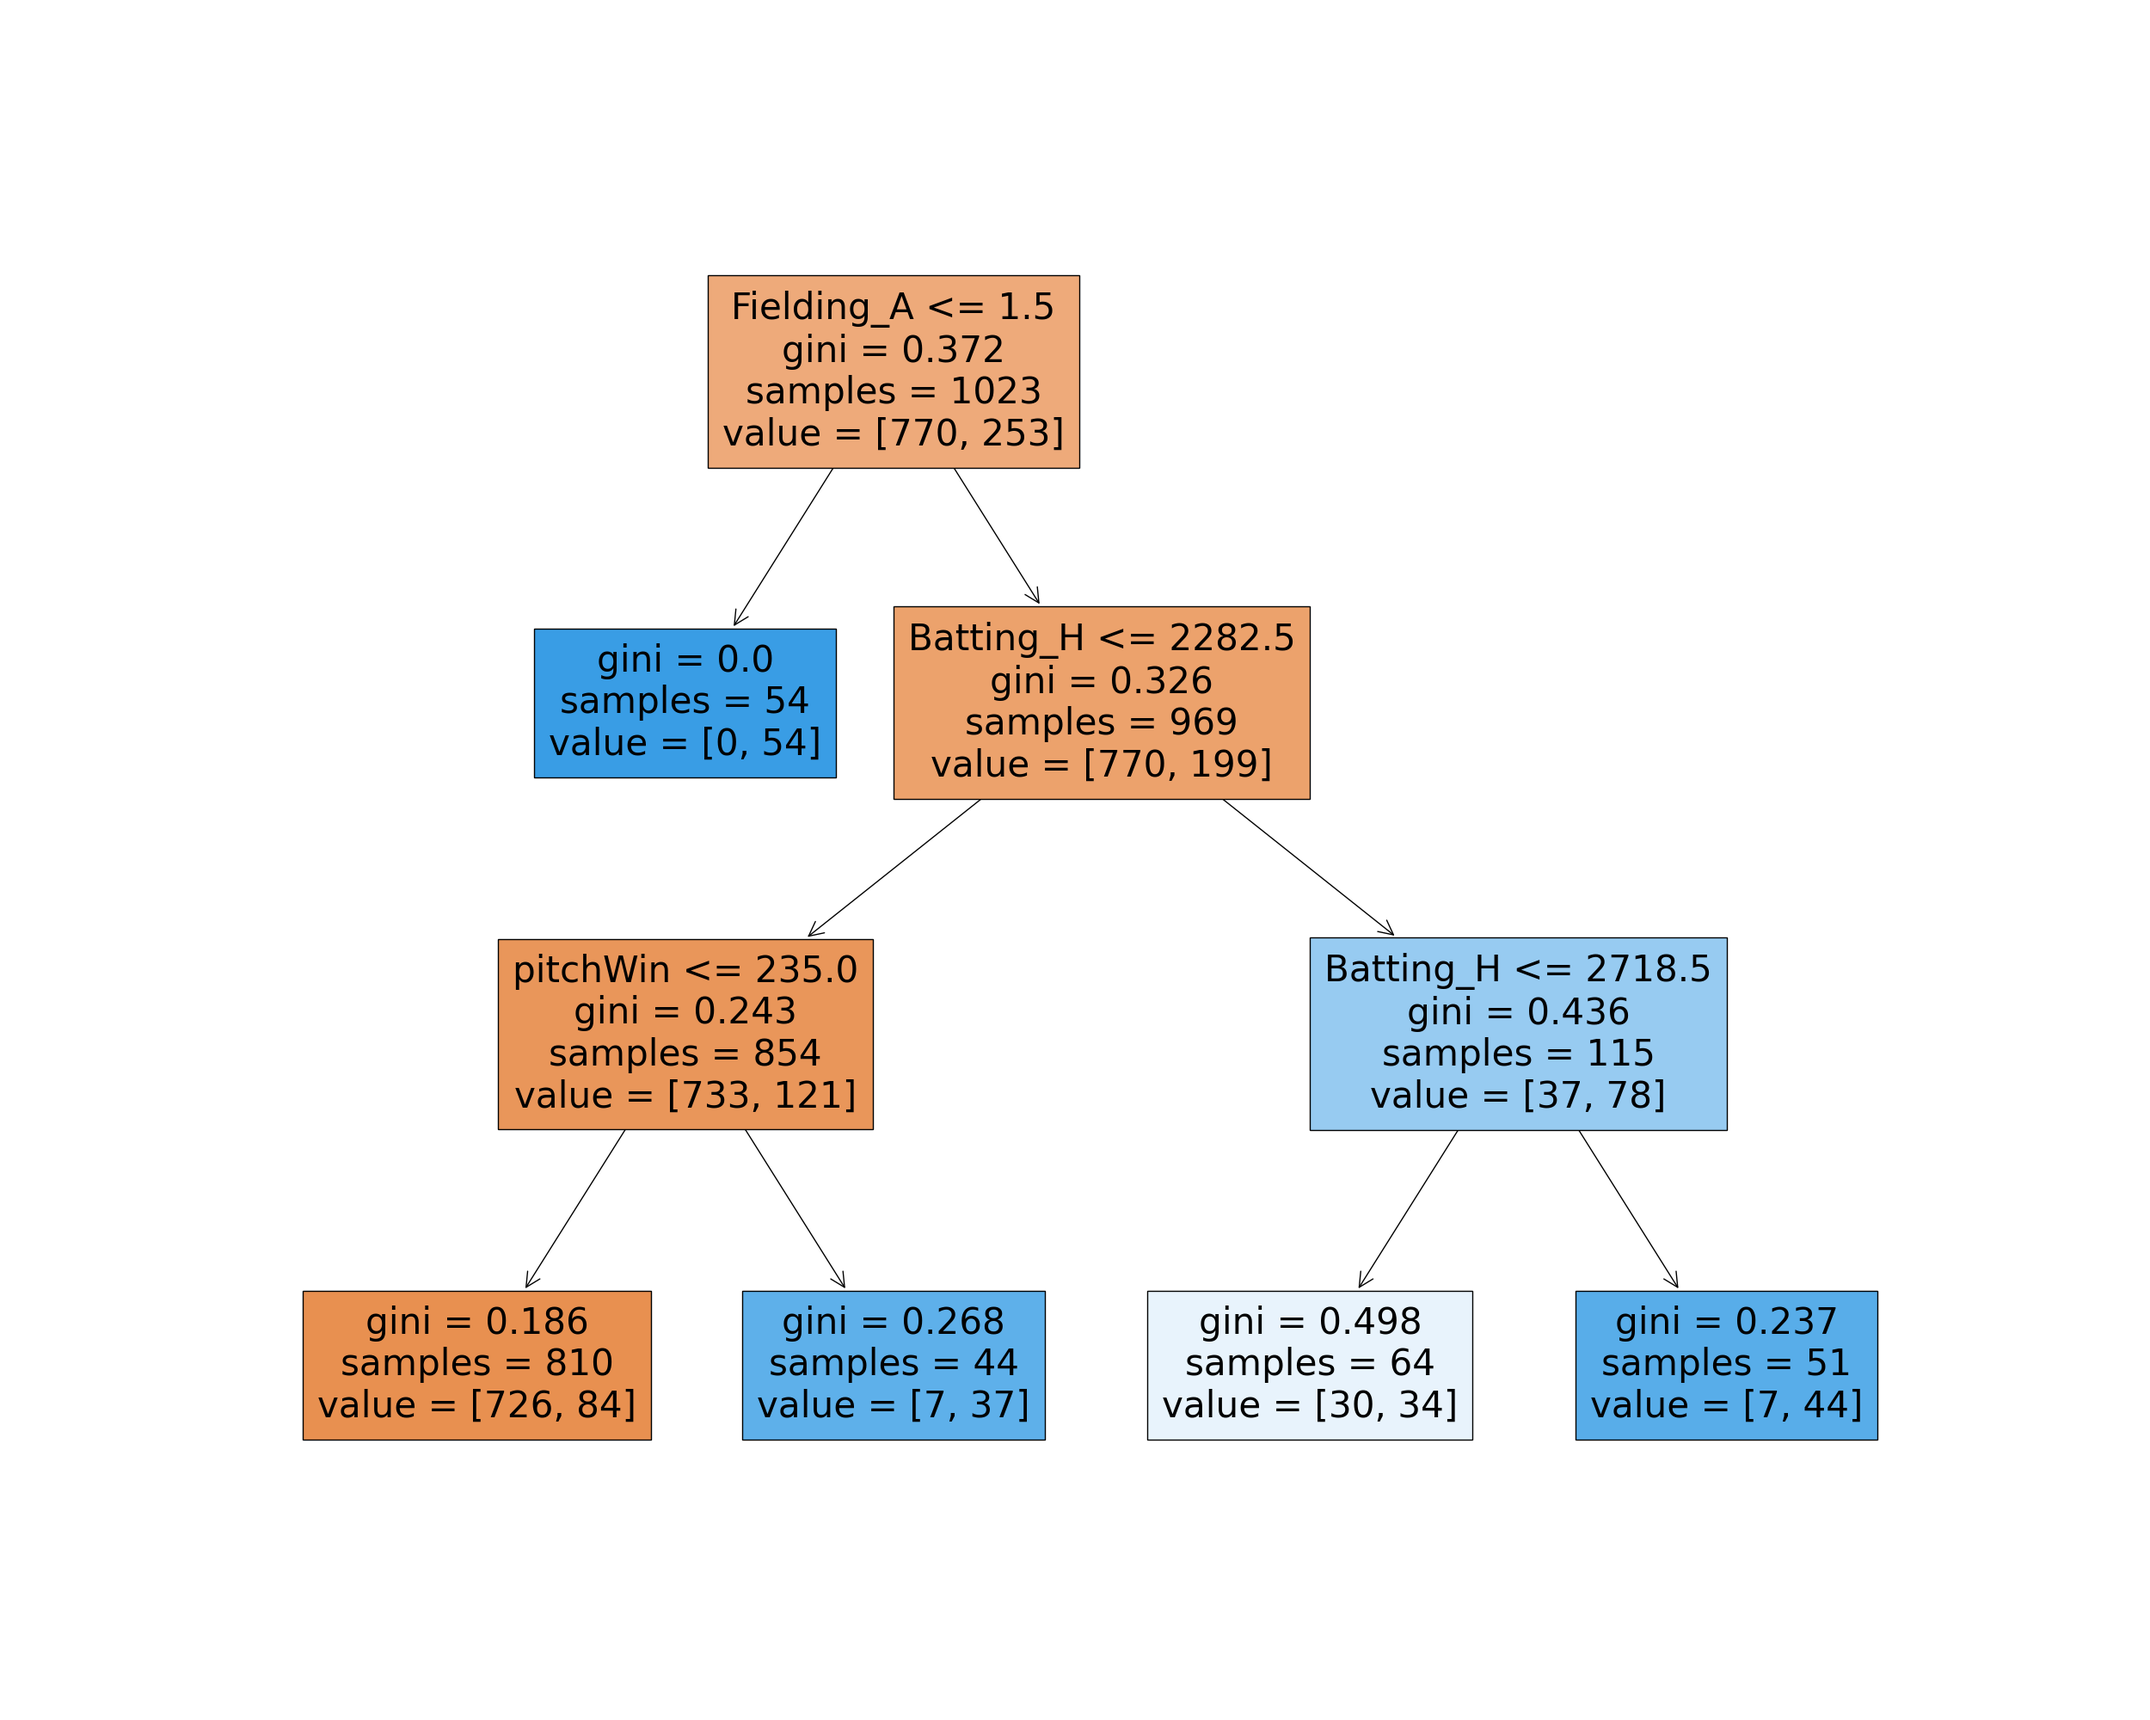
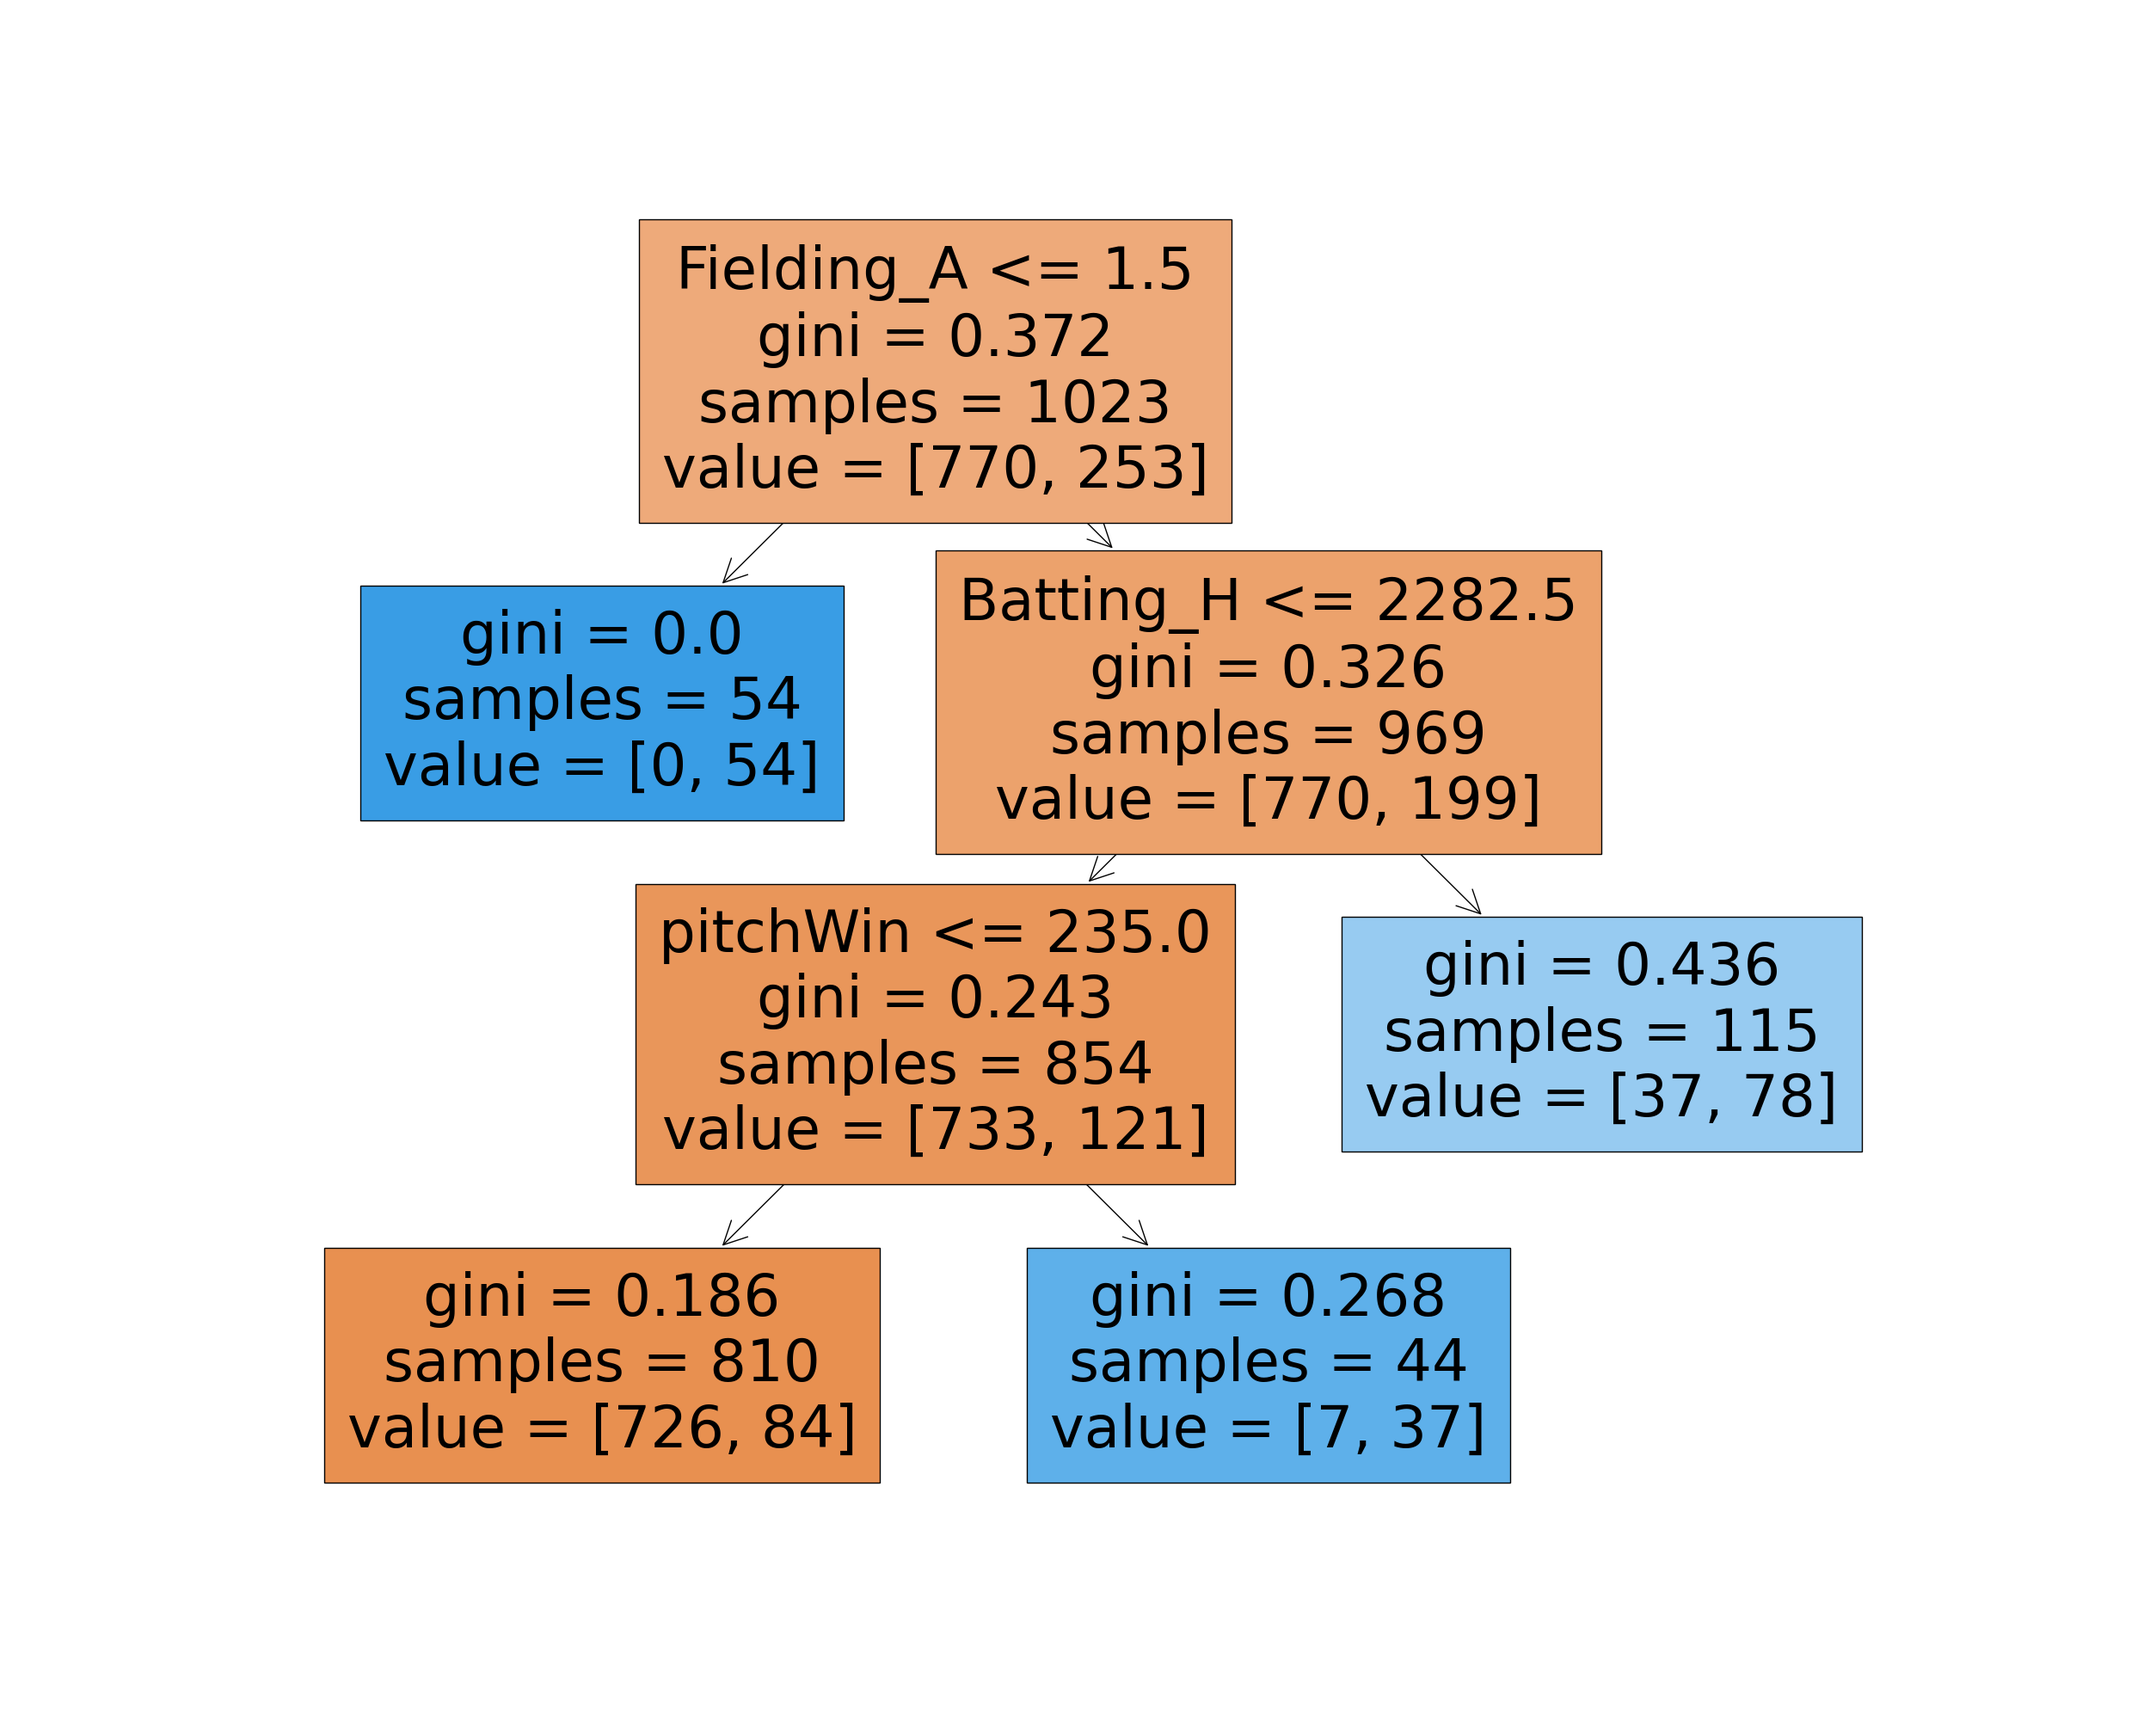
tuned parameters further

Changed region(s): [[0.1248, 0.124, 0.8736, 0.868]]

diff --git a/lab4.py b/lab4.py
@@ -16,7 +16,7 @@ def sim(df, img, depth):
     Y_true = X_test["Class"]
     X_test = X_test.drop(["Class"], axis=1)
 
-    clf = DecisionTreeClassifier(max_depth=depth, random_state = 13, min_samples_split=10, min_samples_leaf=7)
+    clf = DecisionTreeClassifier(max_depth=depth, random_state = 13, min_samples_split=10, min_samples_leaf=7, min_impurity_decrease=0.0105)
     clf.fit(X_train, Y_train)
     y_pred = clf.predict(X_test)
     print(confusion_matrix(Y_true, y_pred))
